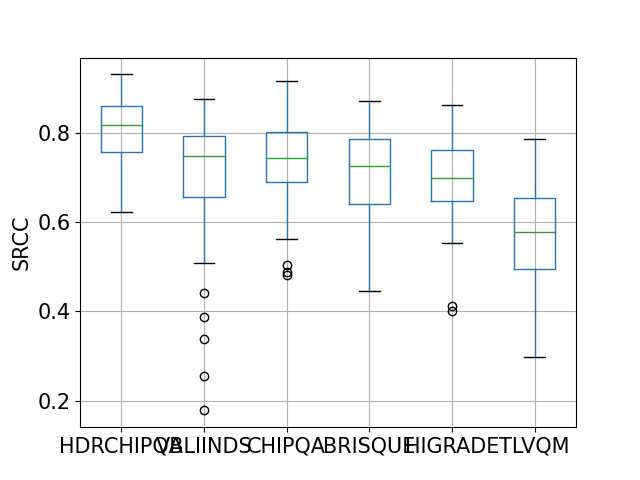
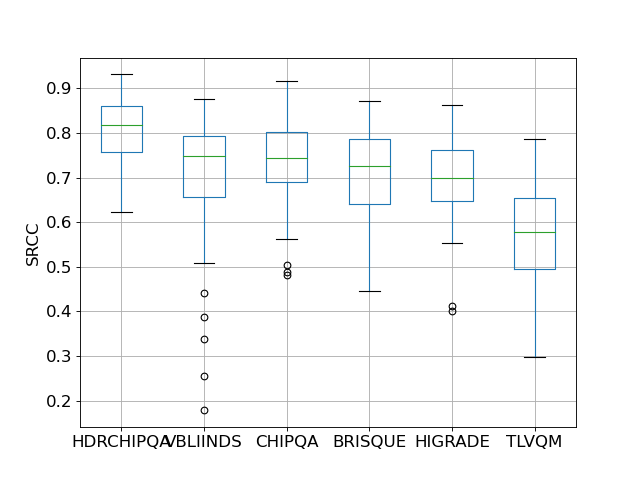
boxplot

diff --git a/plot_boxplot.py b/plot_boxplot.py
@@ -48,7 +48,6 @@ for tzf in test_zip_files:
             current_preds.append(l[2])
 
         preds_srocc = spearmanr(current_preds,current_scores)
-        print(preds_srocc)
         srocc_list.append(preds_srocc[0])
     X.append(srocc_list)
 print(tzf_names)
@@ -60,7 +59,9 @@ X = pd.DataFrame(X.T,columns=tzf_names)
 
 import matplotlib
 matplotlib.rcParams.update({'font.size':15})
-plt.figure()
+
+plt.figure(figsize=(8, 6), dpi=80)
+
 plt.clf()
 
 meds = X.median()
